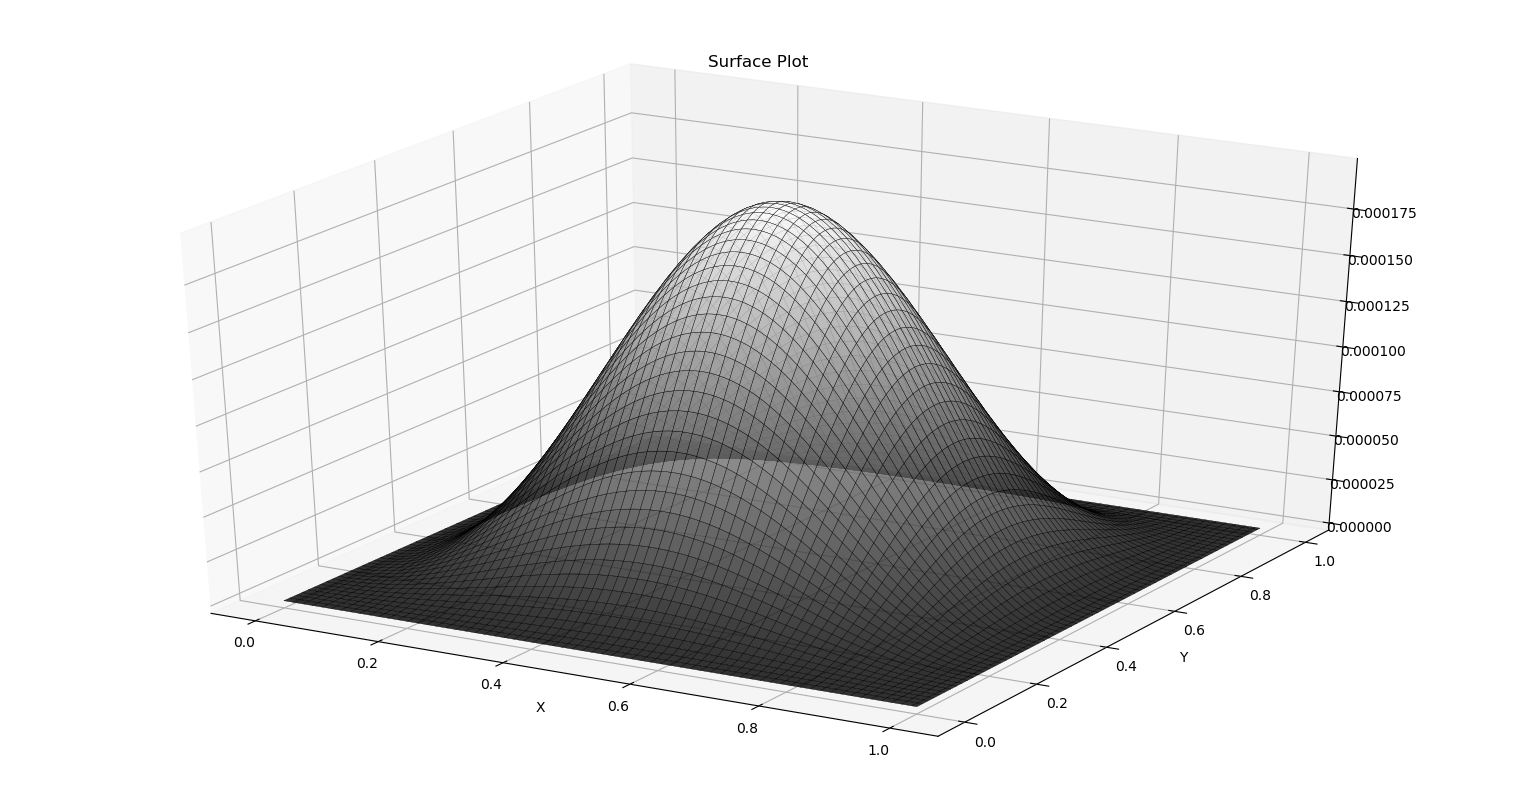
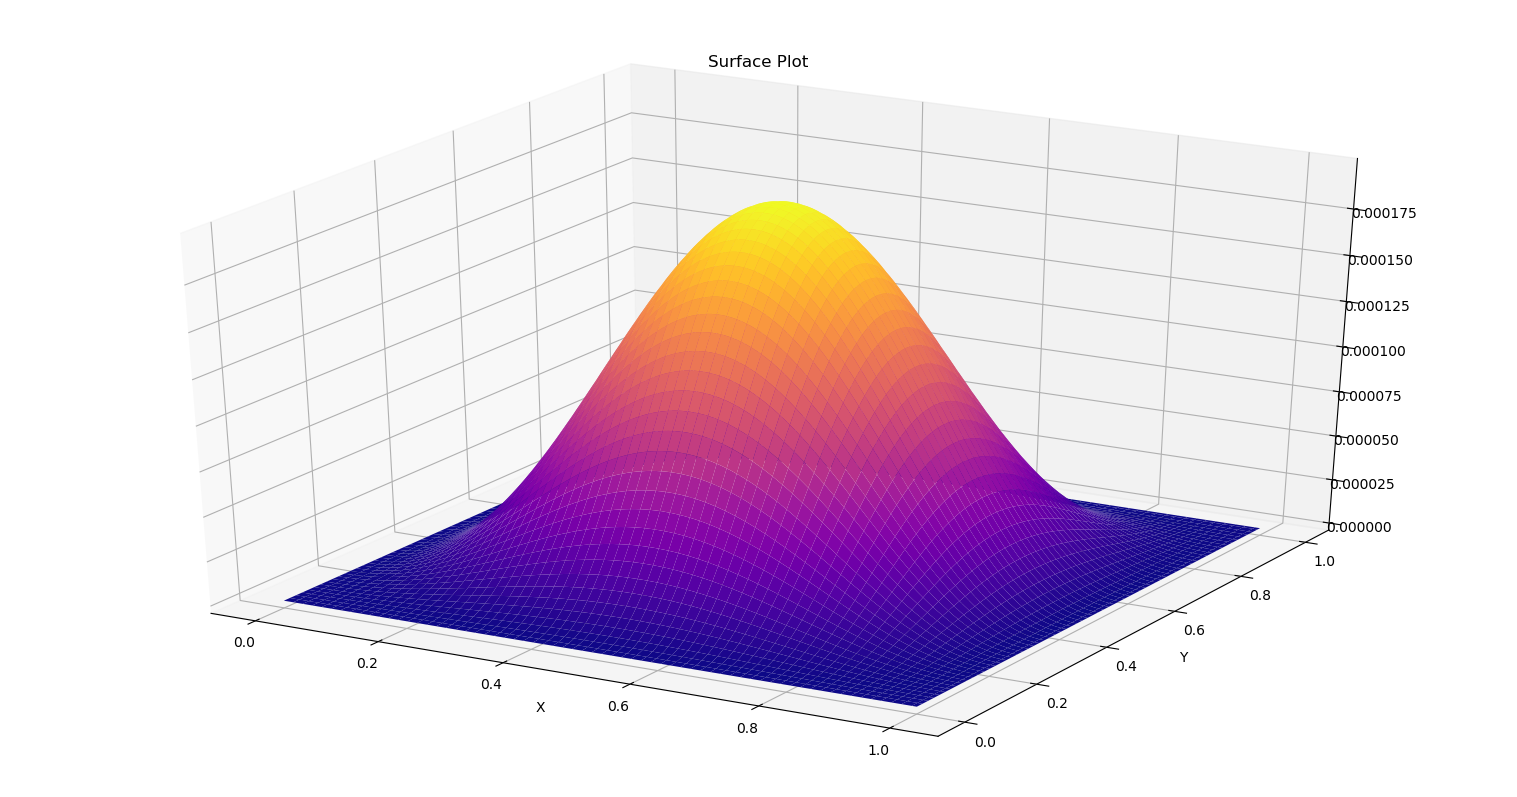
plots done?

Changed region(s): [[0.1859, 0.2409, 0.8365, 0.9034]]

diff --git a/comparison/report.md b/comparison/report.md
@@ -141,3 +141,92 @@ png("matlabdata") # save the plot to a .png file
 Και το αποτέλεσμα:
 
 ![Γράφημα f(x) = x sin(x<sup>2</sup>)](./matlabdata.png)
+
+## Δοκιμή Σύνθετων Λειτουργιών
+
+Θα επιχειρίσουμε να λύσουμε το πρόβλημα της αριθμητικής επίλυσης με πεπερασμένες διαφορές, για την εξίσωση Poisson με ομοιογενή όρια Dirichlet [1, 3, 4, 8]
+
+Το πρόβλημα μπορεί να αναχθεί σε ένα πρόβλημα γραμμικών εξισώσεων που επιλύονται με τον ακόλουθο τρόπο:
+
+``` julia
+using PyPlot
+
+function setupA(N)
+    I = speye(N)
+    s = vcat(squeeze(-1*ones(Int64,1,N-1),1),
+            squeeze(2*ones(Int64,1,N),1),
+            squeeze(-1*ones(Int64,1,N-1),1))
+    i = vcat([n for n=2:N],[n for n=1:N],[n for n=1:N-1])
+    j = vcat([n for n=1:N-1],[n for n=1:N],[n for n=2:N])
+    T = sparse(i,j,s)
+    return kron(I,T) + kron(T,I)
+end
+
+ndgrid(v::AbstractVector) = copy(v)
+
+function ndgrid(v1::AbstractVector{T}, v2::AbstractVector{T}) where T
+    m, n = length(v1), length(v2)
+    v1 = reshape(v1, m, 1)
+    v2 = reshape(v2, 1, n)
+    (repmat(v1, 1, n), repmat(v2, m, 1))
+end
+
+function ndgrid_fill(a, v, s, snext)
+    for j = 1:length(a)
+        a[j] = v[div(rem(j-1, snext), s)+1]
+    end
+end
+
+function ndgrid(vs::AbstractVector{T}...) where T
+    n = length(vs)
+    sz = map(length, vs)
+    out = ntuple(i->Array{T}(sz), n)
+    s = 1
+    for i=1:n
+        a = out[i]::Array
+        v = vs[i]
+        snext = s*size(a,i)
+        ndgrid_fill(a, v, s, snext)
+        s = snext
+    end
+    out
+end
+
+function driver_ge(N)
+    h = 1 / (N+1);
+    x = [h : h : 1-h;]
+    y = x;
+    X, Y = ndgrid(x,y)
+    F = (-2*pi^2) * (cos.(2*pi*X).*(sin.(pi*Y)).^2 + (sin.(pi*X)).^2.*cos.(2*pi*Y))
+    b = h^2 * F[:]
+    X, Y , E = calculation(N,b,x ,y)
+
+    fig = figure("pyplot_surfaceplot",figsize=(20,10))
+    ax = fig[:add_subplot](1,1,1, projection = "3d")
+    ax[:plot_surface](X, Y, E, rstride=2,edgecolors="k", cstride=2,
+                      cmap=ColorMap("plasma"), linewidth=0.01)
+    xlabel("X")
+    ylabel("Y")
+    title(string(N," Surface Plot"))
+    io = open(string("meshPlot_",N,".png"),"w");
+    show(io, "image/png", fig)
+    close(io)
+end
+
+
+function calculation(N, b, x, y)
+    A = setupA(N)
+    u = A \ b
+    Uint = reshape(u, (N,N)) # N.B.: Uint has only solutions on interior points
+    x = vcat([0], x, [1])
+    y = vcat([0], y, [1])
+    X, Y = ndgrid(x,y)
+    U = zeros(size(X))
+    U[2:end-1,2:end-1] = Uint
+    Utrue = (sin.(pi*X)).^2 .* (sin.(pi*Y)).^2
+    E = U - Utrue
+    return X, Y, E
+end
+```
+
+Για τιμές N = { 32, 64, 128, 256, 512, 1024, 2048 }
